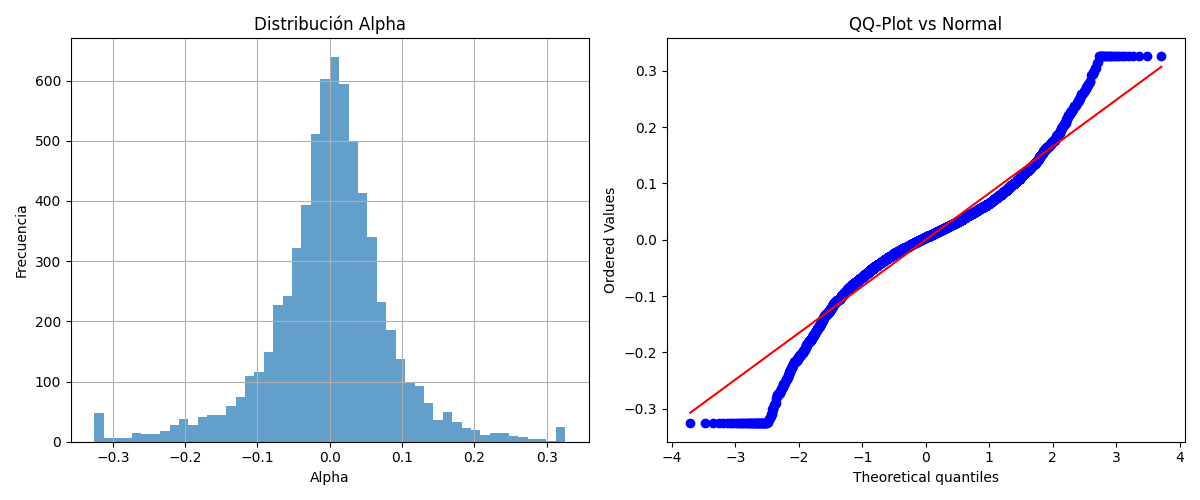
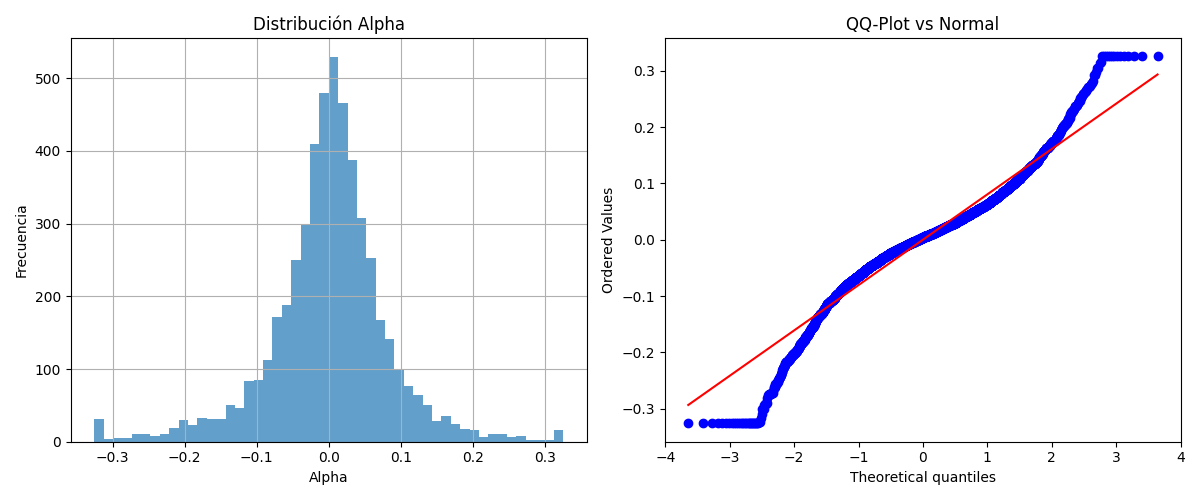
fix

diff --git a/src/agents.py b/src/agents.py
@@ -76,7 +76,7 @@ def portfolio_manager_agent(top_candidates):
     """
 
     response = client.models.generate_content(
-            model='gemini-1.5-flash',
+            model='gemini-2.0-flash',
             contents=prompt,
             config={
                 'response_mime_type': 'application/json'
@@ -118,7 +118,6 @@ def run_system_pipeline():
     print(f"Reasoning: {winner['reasoning']}")
 
 if __name__ == "__main__":
-    # run_system_pipeline()
-    for model in client.models.list():
-        print(model)
-        break
+    run_system_pipeline()
+    # for model in client.models.list():
+    #     print(model)
